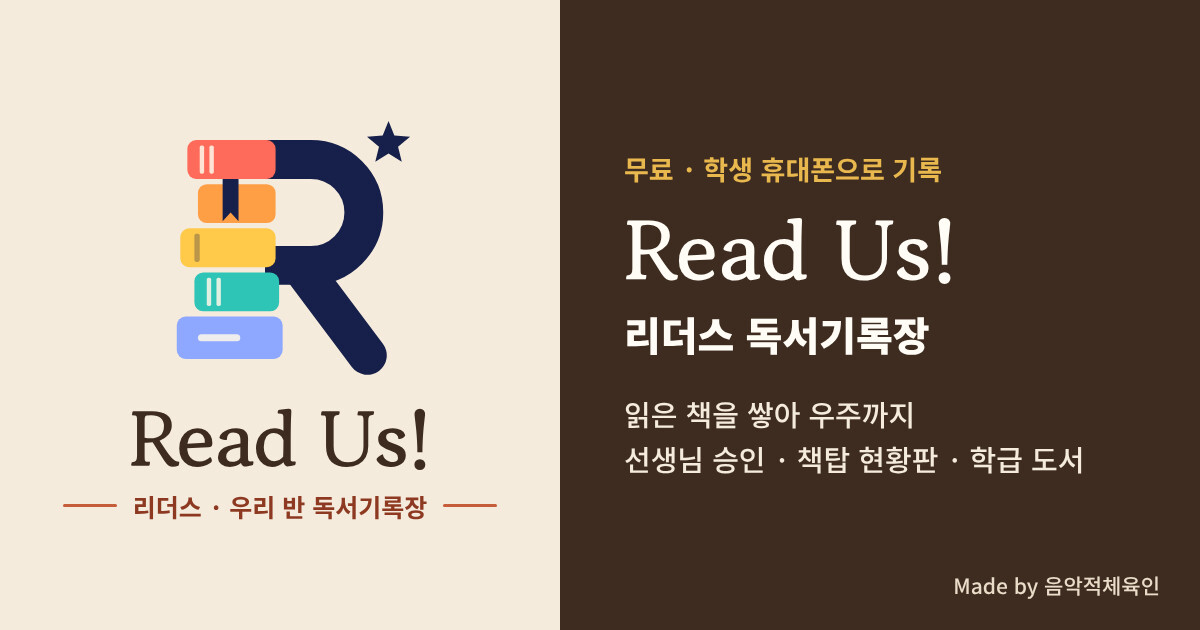
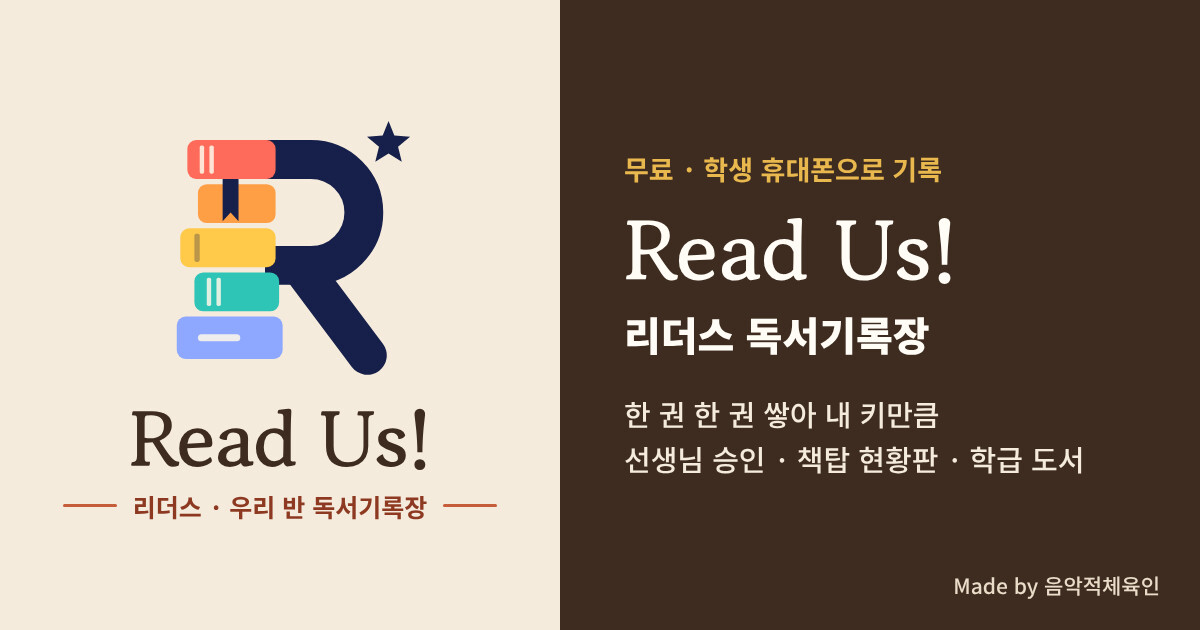
0.8.0: 책 한 권 = 2cm, 목표를 의자·책상·내 키부터, 내 키는 학년별 평균
- 눕혀 쌓은 그림과 맞게 한 권을 실제 두께쯤인 2cm 로 셈 (전에는 30cm)
- 목표: 의자 45cm → 책상 70cm → 내 키 → 교실 문 2m → 교실 천장 3m → 학교·아파트·초고층·산·우주
- 내 키: 교육부 2025 학생 건강검사 표본통계의 학년별 평균. 선생님 메뉴에서 학년 고르기(명단의 학년으로 자동 맞춤)
- 책이 적을 때는 한 권이 그림 한 권, 실제 제목 순서대로
- 비교 그림 추가(의자·책상·아이·문), 썸네일·안내 글의 문구 변경
- 전체 시험 72항목

Claude-Session: https://claude.ai/code/session_012oAFi5DK2xw2x9Njv4ErZ5

Changed region(s): [[0.5242, 0.6333, 0.8017, 0.6937]]

diff --git a/index.html b/index.html
@@ -4,13 +4,13 @@
 <meta charset="utf-8">
 <meta name="viewport" content="width=device-width, initial-scale=1">
 <title>Read Us! 리더스</title>
-<meta name="description" content="읽은 책을 쌓아 우주까지. 학생이 책과 감상을 기록하고 선생님이 승인하면 우리 반 책탑이 쌓여요.">
+<meta name="description" content="한 권 한 권 쌓아 내 키만큼, 교실 천장까지. 학생이 책과 감상을 기록하고 선생님이 승인하면 우리 반 책탑이 쌓여요.">
 <meta property="og:type" content="website">
 <meta property="og:site_name" content="리더스">
 <meta property="og:title" content="Read Us! 리더스 · 독서기록장">
-<meta property="og:description" content="읽은 책을 쌓아 우주까지. 학생 휴대폰으로 기록하고, 선생님이 승인하면 우리 반 책탑이 쌓여요.">
+<meta property="og:description" content="한 권 한 권 쌓아 내 키만큼, 교실 천장까지. 학생 휴대폰으로 기록하고, 선생님이 승인하면 우리 반 책탑이 쌓여요.">
 <meta property="og:url" content="https://musicalpe.github.io/readus/">
-<meta property="og:image" content="https://musicalpe.github.io/readus/img/og-app.jpg?v=1">
+<meta property="og:image" content="https://musicalpe.github.io/readus/img/og-app.jpg?v=2">
 <meta property="og:image:width" content="1200">
 <meta property="og:image:height" content="630">
 <meta name="twitter:card" content="summary_large_image">
@@ -70,9 +70,9 @@ img.cover{object-fit:cover;padding:0;border-left:0;display:block}
 /* 현황판 */
 .tower{flex:3 1 420px;background:var(--wood);color:var(--card);border-radius:20px;padding:24px;display:flex;gap:16px;justify-content:center;overflow:hidden}
 .tower svg{flex:none}
-.marks{position:relative;width:170px;min-width:120px;height:500px;flex:0 1 170px}
+.marks{position:relative;width:170px;min-width:150px;height:500px;flex:0 1 170px}
 .marks div{position:absolute;left:0;transform:translateY(-50%);display:flex;flex-direction:column;line-height:1.3}
-.marks strong{font-size:14px;color:var(--cream)}
+.marks strong{font-size:14px;color:var(--cream);white-space:nowrap}
 .marks span{font-size:12px;color:var(--cream)}
 .marks .goal strong{color:var(--mustard);font-size:15px}
 .marks .now strong{color:var(--card);font-size:17px}
@@ -178,7 +178,7 @@ table.t td,table.t th{padding:8px 6px;border-bottom:1px solid var(--line);text-a
 <script>
 'use strict';
 var TEMPLATE_URL = 'https://docs.google.com/spreadsheets/d/1i-lr4aewTmhj4eJ-hfXgjxaPzflmMyLMn-aqUepZjls/copy';   // 껍데기가 들어 있는 견본 시트 (사본 만들기)
-var APP = { version: '0.7.1', requiredShell: 1, latestShell: 2, s: '', ping: null, settings: null, relay: '', token: '', me: null };
+var APP = { version: '0.8.0', requiredShell: 1, latestShell: 2, s: '', ping: null, settings: null, relay: '', token: '', me: null };
 
 /* ---------- 작은 도구 ---------- */
 function $(sel, root) { return (root || document).querySelector(sel); }
@@ -195,11 +195,15 @@ function dueText(due) {
 }
 // 견본 시트의 사본은 이름 끝에 '의 사본'이 붙으므로 화면에서는 떼고 보여 줌
 function classTitle(t) { return String(t || '').replace(/\s*의 사본(\s*\(\d+\))?\s*$/, '').replace(/^Copy of\s+/i, '').trim(); }
-function heightText(count, cm) {
-  var m = count * cm / 100;
-  if (m >= 1000) return (Math.round(m / 10) / 100) + 'km';
-  return (Math.round(m * 10) / 10) + 'm';
+// 책 한 권 = 실제 두께쯤인 2cm 로 쌓음 (눕혀 쌓은 그림과 맞게). 껍데기가 알려 주는 옛 값(30)은 쓰지 않음
+var BOOK_CM = 2;
+function hText(cm) {
+  if (cm < 100) return Math.round(cm) + 'cm';
+  if (cm < 1000) { var m = Math.floor(cm / 100), r = Math.round(cm - m * 100); return r ? m + 'm ' + r + 'cm' : m + 'm'; }
+  if (cm < 100000) return (Math.round(cm / 10) / 10) + 'm';
+  return (Math.round(cm / 1000) / 100) + 'km';
 }
+function heightText(count) { return hText(count * BOOK_CM); }
 
 /* ---------- 학교 시트(껍데기)와 주고받기 ---------- */
 async function rpcOnce(fn, args) {
@@ -271,12 +275,13 @@ function rng(seed) { var a = seed >>> 0; return function () { a = (a + 0x6D2B79F
 function pick(r, arr) { return arr[Math.floor(r() * arr.length)]; }
 function inkOn(c) { return (c === '#D2604A' || c === '#B8566B') ? CREAM : INK; }
 // fill: 0~1 (다음 목표까지 얼마나 찼는지), titles: 책등에 적을 제목들(최근 승인된 책)
-function towerSvg(fill, titles) {
+function towerSvg(fill, titles, exact) {
   var W = 190, H = 500, fillPx = Math.max(0, Math.min(1, fill)) * H, r = rng(23), r2 = rng(5);
   var hs = [], sum = 0;
   while (fillPx - sum >= 14) { var hh = Math.min(pick(r, [16, 18, 20, 22, 26]), fillPx - sum); if (fillPx - sum - hh < 14 && fillPx - sum <= 30) hh = fillPx - sum; hs.push(hh); sum += hh; }
+  if (exact) { hs = []; for (var e = 0; e < exact; e++) hs.push(fillPx / exact); }   // 한 권이 그림 한 권 (제목도 실제 순서대로)
   if (!hs.length && fillPx > 0) hs.push(Math.max(8, fillPx));
-  var out = ['<svg width="' + W + '" height="' + H + '" viewBox="0 0 ' + W + ' ' + H + '" role="img" aria-label="우리 반 책탑"><line x1="0" y1="1" x2="' + W + '" y2="1" stroke="#E8B84E" stroke-width="2" stroke-dasharray="6 5"/>'];
+  var out = ['<svg width="' + W + '" height="' + H + '" viewBox="0 0 ' + W + ' ' + H + '" role="img" aria-label="우리 반 책탑" data-n="' + hs.length + '"><line x1="0" y1="1" x2="' + W + '" y2="1" stroke="#E8B84E" stroke-width="2" stroke-dasharray="6 5"/>'];
   function lines(a, b) { var o = [], t = a + 1.4; while (t < b - 0.8) { o.push(t); t += pick(r2, [1.8, 2.2, 2.6]); } return o; }
   var y = H, prevC = '', prevO = '', ti = 0, k = 0;
   hs.forEach(function (h) {
@@ -329,11 +334,22 @@ function towerSvg(fill, titles) {
 }
 
 /* ---------- 목표와 비교 그림 ---------- */
-var GOALS = [
-  { m: 3, name: '교실 천장', kind: 'room' }, { m: 12, name: '학교 4층', kind: 'bld', floors: 4 }, { m: 30, name: '아파트 10층', kind: 'bld', floors: 10 },
-  { m: 75, name: '아파트 25층', kind: 'bld', floors: 25 }, { m: 249, name: '63빌딩', kind: 'sky' }, { m: 555, name: '롯데월드타워', kind: 'sky' },
-  { m: 1947, name: '한라산', kind: 'mt' }, { m: 8849, name: '에베레스트', kind: 'mt' }, { m: 100000, name: '우주', kind: 'space' }
-];
+// 학년별 평균 키(cm): 교육부 2025년 학생 건강검사 표본통계의 남녀 평균을 반올림 (초2·초3·초5 는 발표된 학년 사이를 어림)
+var KID_CM = { '1': 122, '2': 128, '3': 134, '4': 140, '5': 146, '6': 153, 'm1': 159, 'm2': 163, 'm3': 166 };
+var GRADE_NAME = { '1': '1학년', '2': '2학년', '3': '3학년', '4': '4학년', '5': '5학년', '6': '6학년', 'm1': '중1', 'm2': '중2', 'm3': '중3' };
+function classGrade() { var g = APP.settings && APP.settings.extra && APP.settings.extra.grade; return KID_CM[g] ? String(g) : ''; }
+function goalsFor(grade) {
+  var kid = KID_CM[grade] || 140;
+  return [
+    { cm: 45, name: '의자', kind: 'chair' }, { cm: 70, name: '책상', kind: 'desk' },
+    { cm: kid, name: '내 키', sub: (GRADE_NAME[grade] || '초등학생') + ' 평균', kind: 'kid' },
+    { cm: 200, name: '교실 문', kind: 'door' }, { cm: 300, name: '교실 천장', kind: 'room' },
+    { cm: 600, name: '학교 2층', kind: 'bld', floors: 2 }, { cm: 1200, name: '학교 4층', kind: 'bld', floors: 4 },
+    { cm: 3000, name: '아파트 10층', kind: 'bld', floors: 10 }, { cm: 7500, name: '아파트 25층', kind: 'bld', floors: 25 },
+    { cm: 24900, name: '63빌딩', kind: 'sky' }, { cm: 55500, name: '롯데월드타워', kind: 'sky' },
+    { cm: 194700, name: '한라산', kind: 'mt' }, { cm: 884900, name: '에베레스트', kind: 'mt' }, { cm: 10000000, name: '우주', kind: 'space' }
+  ];
+}
 function compareSvg(g) {
   var W = 104, H = 500, o = ['<svg class="cmp" width="' + W + '" height="' + H + '" viewBox="0 0 ' + W + ' ' + H + '" role="img" aria-label="비교 대상: ' + esc(g.name) + '">'];
   if (g.kind === 'bld') {
@@ -343,10 +359,26 @@ function compareSvg(g) {
       var y = top + f * fh;
       o.push('<rect x="' + bx + '" y="' + (y + fh - Math.min(3, fh * 0.12)).toFixed(1) + '" width="' + bw + '" height="' + Math.min(3, fh * 0.12).toFixed(1) + '" fill="#A08C72"/>');
       for (var c = 0; c < 3; c++) {
-        if (f === g.floors - 1 && c === 1) { o.push('<rect x="' + (bx + 29) + '" y="' + (y + fh * 0.3).toFixed(1) + '" width="20" height="' + (fh * 0.7).toFixed(1) + '" fill="#6E5847"/>'); continue; }
-        o.push('<rect x="' + (bx + 8 + c * 23) + '" y="' + (y + fh * 0.25).toFixed(1) + '" width="16" height="' + (fh * 0.45).toFixed(1) + '" rx="1" fill="' + (((f * 3 + c) % 4 === 1) ? '#FBEBC4' : '#6E5847') + '"/>');
+        var wh = Math.min(fh * 0.45, 46), dh = Math.min(fh * 0.7, 84);   // 층이 적은 건물은 창과 문이 길쭉해지지 않게
+        if (f === g.floors - 1 && c === 1) { o.push('<rect x="' + (bx + 29) + '" y="' + (y + fh - dh).toFixed(1) + '" width="20" height="' + dh.toFixed(1) + '" fill="#6E5847"/>'); continue; }
+        o.push('<rect x="' + (bx + 8 + c * 23) + '" y="' + (y + fh * 0.3).toFixed(1) + '" width="16" height="' + wh.toFixed(1) + '" rx="1" fill="' + (((f * 3 + c) % 4 === 1) ? '#FBEBC4' : '#6E5847') + '"/>');
       }
     }
+  } else if (g.kind === 'chair') {
+    W = 150; o[0] = o[0].replace('width="104"', 'width="150"').replace('0 0 104 ', '0 0 150 ');
+    o.push('<rect x="20" y="0" width="16" height="500" rx="6" fill="#8F7B63"/><rect x="20" y="20" width="16" height="150" rx="6" fill="#B9A58C"/><rect x="16" y="262" width="118" height="26" rx="8" fill="#B9A58C"/><rect x="112" y="288" width="16" height="212" rx="6" fill="#8F7B63"/><rect x="36" y="380" width="76" height="10" fill="#8F7B63"/>');
+  } else if (g.kind === 'desk') {
+    W = 170; o[0] = o[0].replace('width="104"', 'width="170"').replace('0 0 104 ', '0 0 170 ');
+    o.push('<rect x="4" y="0" width="162" height="30" rx="8" fill="#B9A58C"/><rect x="14" y="30" width="142" height="86" rx="4" fill="#8F7B63"/><rect x="26" y="52" width="118" height="10" rx="5" fill="#6E5847"/><rect x="18" y="116" width="16" height="384" rx="6" fill="#8F7B63"/><rect x="136" y="116" width="16" height="384" rx="6" fill="#8F7B63"/><rect x="34" y="420" width="102" height="10" fill="#8F7B63"/>');
+  } else if (g.kind === 'kid') {
+    W = 150; o[0] = o[0].replace('width="104"', 'width="150"').replace('0 0 104 ', '0 0 150 ');
+    o.push('<circle cx="75" cy="44" r="44" fill="#E9C9A6"/><path d="M31 44a44 44 0 0 1 88 0c-12-18-32-22-44-14c-14-8-34-4-44 14z" fill="#4E392B" stroke="#3E2C20" stroke-width="2"/><circle cx="60" cy="52" r="4" fill="#3E2C20"/><circle cx="90" cy="52" r="4" fill="#3E2C20"/><path d="M62 66q13 10 26 0" fill="none" stroke="#3E2C20" stroke-width="3" stroke-linecap="round"/>');
+    o.push('<rect x="64" y="84" width="22" height="18" fill="#E9C9A6"/><rect x="36" y="98" width="78" height="170" rx="22" fill="#E8B84E"/><rect x="14" y="106" width="24" height="150" rx="12" fill="#E8B84E"/><rect x="112" y="106" width="24" height="150" rx="12" fill="#E8B84E"/><circle cx="26" cy="262" r="12" fill="#E9C9A6"/><circle cx="124" cy="262" r="12" fill="#E9C9A6"/>');
+    o.push('<rect x="42" y="250" width="30" height="220" rx="12" fill="#5E7C9B"/><rect x="78" y="250" width="30" height="220" rx="12" fill="#5E7C9B"/><rect x="34" y="466" width="42" height="34" rx="12" fill="#3E2C20"/><rect x="74" y="466" width="42" height="34" rx="12" fill="#3E2C20"/>');
+  } else if (g.kind === 'door') {
+    // 문 높이 2m = 500px (너비는 칸에 맞춰 조금 좁게)
+    W = 170; o[0] = o[0].replace('width="104"', 'width="170"').replace('0 0 104 ', '0 0 170 ');
+    o.push('<rect x="0" y="0" width="170" height="500" fill="#8F7B63"/><rect x="8" y="8" width="154" height="492" fill="#B9A58C"/><rect x="28" y="40" width="70" height="130" rx="3" fill="#FBEBC4"/><rect x="24" y="250" width="122" height="220" rx="3" fill="none" stroke="#A08C72" stroke-width="4"/><circle cx="142" cy="268" r="7" fill="#6E5847"/>');
   } else if (g.kind === 'room') {
     // 교실 벽과 문: 500px = 3m 이므로 문은 높이 2m(333px)·너비 0.8m(132px)
     W = 160; o[0] = '<svg class="cmp" width="' + W + '" height="' + H + '" viewBox="0 0 ' + W + ' ' + H + '" role="img" aria-label="비교 대상: ' + esc(g.name) + '">';
@@ -366,7 +398,7 @@ function compareSvg(g) {
   o.push('</svg>');
   return o.join('');
 }
-function goalFor(m) { for (var i = 0; i < GOALS.length; i++) if (m < GOALS[i].m) return i; return GOALS.length - 1; }
+function goalFor(goals, cm) { for (var i = 0; i < goals.length; i++) if (cm < goals[i].cm) return i; return goals.length - 1; }
 
 /* ---------- 표지 ---------- */
 function coverHtml(b) {
@@ -416,17 +448,19 @@ VIEWS.home = async function () {
   var d = await guard(function () { return rpc('getBoard'); });
   if (!d) { app.innerHTML = '<div class="card"><p>학교 시트와 연결하지 못했어요.</p><button class="btn" type="button" id="again">다시 시도</button></div>'; $('#again').onclick = render; return; }
   $('#cls').textContent = classTitle(d.title);
-  var m = d.total * d.bookCm / 100, gi = goalFor(m), goal = GOALS[gi], fill = Math.min(1, m / goal.m);
-  var left = Math.max(0, Math.ceil(goal.m * 100 / d.bookCm) - d.total);
-  var marks = '<div class="goal" style="top:0"><strong>' + esc(goal.name) + ' · ' + heightText(goal.m * 100 / d.bookCm, d.bookCm) + '</strong><span>다음 목표</span></div>';
-  var nowTop = (1 - fill) * 100, used = [0, nowTop];
-  marks += '<div class="now" style="top:' + nowTop.toFixed(1) + '%"><strong>지금 여기 · ' + heightText(d.total, d.bookCm) + '</strong><span>' + d.total + '권</span></div>';
-  GOALS.slice(0, gi).reverse().forEach(function (g) {
-    var t = (1 - g.m / goal.m) * 100;
+  var goals = goalsFor(classGrade()), cm = d.total * BOOK_CM, gi = goalFor(goals, cm), goal = goals[gi], fill = Math.min(1, cm / goal.cm);
+  var left = Math.max(0, Math.ceil(goal.cm / BOOK_CM) - d.total);
+  var per = 500 / (goal.cm / BOOK_CM), exact = (per >= 12 && per <= 30 && d.total > 0 && cm < goal.cm) ? d.total : 0;   // 한 권이 12~30px 로 그려질 때만 한 권씩
+  function gname(g) { return esc(g.name) + ' · ' + hText(g.cm); }
+  var marks = '<div class="goal" style="top:0"><strong>' + gname(goal) + '</strong><span>' + (goal.sub ? esc(goal.sub) + ' · ' : '') + '다음 목표 · ' + Math.ceil(goal.cm / BOOK_CM) + '권</span></div>';
+  var nowTop = Math.max(10, (1 - fill) * 100), used = [0, nowTop];   // 목표 글자와 겹치지 않게 조금 아래로
+  marks += '<div class="now" style="top:' + nowTop.toFixed(1) + '%"><strong>지금 여기 · ' + hText(cm) + '</strong><span>' + d.total + '권</span></div>';
+  goals.slice(0, gi).reverse().forEach(function (g) {
+    var t = (1 - g.cm / goal.cm) * 100;
     if (used.some(function (u) { return Math.abs(u - t) < 10; }) || t > 97) return;
-    used.push(t); marks += '<div style="top:' + t.toFixed(1) + '%"><strong>' + esc(g.name) + ' · ' + heightText(g.m * 100 / d.bookCm, d.bookCm) + '</strong><span>지남</span></div>';
+    used.push(t); marks += '<div style="top:' + t.toFixed(1) + '%"><strong>' + gname(g) + '</strong><span>지남</span></div>';
   });
-  celebrate(d, m);
+  celebrate(d, cm, goals);
   var side = '';
   if (d.classBooks.length) side += '<h2 style="font-size:19px">우리 반이 함께 읽는 책</h2>' + d.classBooks.map(function (c) { return classBookCard(c); }).join('');
   if (d.ranks) {
@@ -437,22 +471,24 @@ VIEWS.home = async function () {
   }
   if (d.recent.length) side += '<div class="card"><span class="muted">방금 쌓인 책</span><br><strong>' + esc(d.recent[0].title) + (d.recent[0].name ? ' · ' + esc(d.recent[0].name) : '') + '</strong></div>';
   if (!side) side = '<div class="card"><strong>아직 쌓인 책이 없어요</strong><p class="muted">책을 읽고 "책 기록하기"로 첫 책을 올려 보세요.</p></div>';
-  app.innerHTML = '<div class="row" style="justify-content:space-between;margin-bottom:14px"><h1 class="headline">우리 반 책탑 ' + d.total + '권 · ' + heightText(d.total, d.bookCm) + '</h1>' +
-    '<strong>' + (left > 0 ? esc(goal.name) + '까지 ' + left + '권 남았어요' : esc(goal.name) + '에 닿았어요') + '</strong></div>' +
-    '<div class="grid2"><div class="tower">' + towerSvg(fill, d.recent.map(function (r) { return r.title; })) + compareSvg(goal) + '<div class="marks">' + marks + '</div></div><div class="side">' + side + '</div></div>';
+  var titles = d.recent.map(function (r) { return r.title; });
+  if (exact) titles = titles.slice(0, exact).reverse();
+  app.innerHTML = '<div class="row" style="justify-content:space-between;margin-bottom:4px"><h1 class="headline">우리 반 책탑 ' + d.total + '권 · ' + hText(cm) + '</h1>' +
+    '<strong>' + (left > 0 ? esc(goal.name) + '까지 ' + left + '권 남았어요' : esc(goal.name) + '에 닿았어요') + '</strong></div><p class="muted" style="margin:0 0 14px">책 한 권을 ' + BOOK_CM + 'cm로 쌓아요</p>' +
+    '<div class="grid2"><div class="tower">' + towerSvg(fill, titles, exact) + compareSvg(goal) + '<div class="marks">' + marks + '</div></div><div class="side">' + side + '</div></div>';
 };
 
 /* ---------- 목표에 닿았을 때 축하 (기기마다 한 번) ---------- */
-function celebrate(d, m) {
-  var reached = GOALS.filter(function (g) { return m >= g.m; }).length, key = 'ru_goal|' + APP.s, prev = null;
+function celebrate(d, cm, goals) {
+  var reached = goals.filter(function (g) { return cm >= g.cm; }).length, key = 'ru_goal2|' + APP.s, prev = null;
   try { prev = localStorage.getItem(key); localStorage.setItem(key, String(reached)); } catch (e) { return; }
   if (prev === null || reached <= Number(prev) || !reached) return;
-  var g = GOALS[reached - 1], next = GOALS[reached], conf = '';
+  var g = goals[reached - 1], next = goals[reached], conf = '';
   for (var i = 0; i < 36; i++) conf += '<i style="left:' + (i * 2.8 + (i % 3)) + '%;background:' + BOOKC[i % 6] + ';animation-delay:' + ((i * 37) % 900) + 'ms;animation-duration:' + (2200 + (i * 53) % 1200) + 'ms"></i>';
   setTimeout(function () {
     if ((location.hash || '#home') !== '#home' || $('#modal').innerHTML) return;
-    $('#modal').innerHTML = '<div class="conf" aria-hidden="true">' + conf + '</div><div class="shade mid" id="cels"><div class="qrbox" role="dialog" aria-labelledby="celt"><span class="pill">목표 달성</span><h2 id="celt" style="font-size:28px">' + esc(g.name) + '에 닿았어요</h2><p style="margin:0;font-size:17px">우리 반이 함께 <b>' + d.total + '권</b>, ' + heightText(d.total, d.bookCm) + '를 쌓았어요.</p>' +
-      (next ? '<p class="muted" style="margin:0">다음 목표는 ' + esc(next.name) + ' (' + heightText(next.m * 100 / d.bookCm, d.bookCm) + ')</p>' : '') + '<button class="btn" type="button" id="celx">좋아요</button></div></div>';
+    $('#modal').innerHTML = '<div class="conf" aria-hidden="true">' + conf + '</div><div class="shade mid" id="cels"><div class="qrbox" role="dialog" aria-labelledby="celt"><span class="pill">목표 달성</span><h2 id="celt" style="font-size:28px">' + esc(g.name) + '에 닿았어요</h2><p style="margin:0;font-size:17px">우리 반이 함께 <b>' + d.total + '권</b>, ' + hText(cm) + '를 쌓았어요.</p>' +
+      (next ? '<p class="muted" style="margin:0">다음 목표는 ' + esc(next.name) + ' (' + hText(next.cm) + ')</p>' : '') + '<button class="btn" type="button" id="celx">좋아요</button></div></div>';
     $('#celx').onclick = function () { $('#modal').innerHTML = ''; };
     $('#cels').onclick = function (ev) { if (ev.target === ev.currentTarget) $('#modal').innerHTML = ''; };
     $('#celx').focus();
@@ -518,7 +554,7 @@ VIEWS.student = async function () {
   }
   var me = APP.me, d = await guard(function () { return rpc('getMyBooks', [me.id, me.pw]); });
   if (!d) { APP.me = null; return; }
-  var cm = APP.ping.bookCm, rule = APP.settings.rule;
+  var cm = BOOK_CM, rule = APP.settings.rule;
   var cbs = d.classBooks.map(function (c) {
     var st = c.my === 'approved' ? '<span class="pill ok">읽었어요 · 승인됨</span>' : c.my === 'pending' ? '<span class="pill wait">읽었어요 · 승인 대기</span>' : '<button class="btn small" type="button" data-cb="' + esc(c.id) + '">다 읽었어요 · 감상 쓰기</button>';
     return classBookCard(c, '<div>' + st + '</div>');
@@ -623,6 +659,11 @@ VIEWS.admin = async function () {
   var d = await guard(function () { return rpc('getAllDataAdmin', [APP.token]); });
   if (!d) { adminOut(); render(); return; }
   ADMIN.data = d; ADMIN.at = Date.now(); APP.settings = d.settings; APP.ping.shell = d.shell;
+  if (d.shell >= 2 && !classGrade() && d.students.length) {   // 학년을 아직 안 골랐으면 명단에서 가장 많은 학년으로 맞춰 둠
+    var tally = {}; d.students.forEach(function (st) { if (KID_CM[st.grade]) tally[st.grade] = (tally[st.grade] || 0) + 1; });
+    var top = Object.keys(tally).sort(function (a, b) { return tally[b] - tally[a]; })[0];
+    if (top) { try { APP.settings = d.settings = await rpc('setSettings', [APP.token, { extra: { grade: top } }]); } catch (e) {} }
+  }
   $('#cls').textContent = classTitle(d.settings.className || d.sheetName || APP.ping.title);
   drawAdmin();
 };
@@ -666,7 +707,7 @@ function editBook(b) {
 }
 // 독서기록장 인쇄: 승인된 기록만, 학생마다 한 쪽씩
 function printRecords(d, students) {
-  var cm = APP.ping.bookCm, cls = classTitle($('#cls').textContent), html = '';
+  var cm = BOOK_CM, cls = classTitle($('#cls').textContent), html = '';
   students.forEach(function (s) {
     var list = d.books.filter(function (b) { return b.sid === s.id && b.status === 'approved'; });
     html += '<section><h1>' + esc(s.name) + '의 독서기록장</h1><p class="sum">' + esc(cls) + ' · ' + esc(s.grade) + '학년 ' + esc(s.cls) + '반 ' + esc(s.number) + '번 · 모두 ' + list.length + '권 (책탑 ' + heightText(list.length, cm) + ')</p>' +
@@ -703,7 +744,7 @@ var ADMIN_TABS = {
     });
   },
   records: function (el, d) {
-    var cm = APP.ping.bookCm, sid = ADMIN.recSid || '', cnt = {};
+    var cm = BOOK_CM, sid = ADMIN.recSid || '', cnt = {};
     d.books.forEach(function (b) { if (b.status === 'approved') cnt[b.sid] = (cnt[b.sid] || 0) + 1; });
     if (sid && !d.students.some(function (s) { return s.id === sid; })) sid = ADMIN.recSid = '';
     var head = '<div class="row" style="margin-bottom:14px"><label for="rsel" style="font-weight:700">학생</label><select class="in" id="rsel" style="width:auto;flex:1 1 180px;max-width:280px"><option value="">우리 반 전체</option>' +
@@ -788,10 +829,11 @@ var ADMIN_TABS = {
   },
   board: function (el, d) {
     var link = location.origin + location.pathname + '?s=' + encodeURIComponent(APP.s);
-    el.innerHTML = '<div class="stack" style="max-width:560px">' + (d.shell >= 2 ? '<form class="item" id="cnf"><label class="f" for="cn" style="margin-top:0">화면에 보일 학급 이름 (비우면 시트 이름을 씁니다)</label><div class="row" style="flex-wrap:nowrap"><input class="in" id="cn" maxlength="30" autocomplete="off" value="' + esc(d.settings.className || '') + '" placeholder="' + esc(classTitle(d.sheetName)) + '"><button class="btn small" type="submit" style="white-space:nowrap">저장</button></div></form>' : '') + '<div class="item"><label class="row" style="min-height:44px;font-weight:700"><input type="checkbox" id="sn" style="width:22px;height:22px"' + (d.settings.showNames ? ' checked' : '') + '> 현황판에 친구 이름과 권수 보이기</label><p class="muted" style="margin:0">끄면 현황판에는 우리 반 전체 책탑만 보여요.</p></div>' +
+    el.innerHTML = '<div class="stack" style="max-width:560px">' + (d.shell >= 2 ? '<form class="item" id="cnf"><label class="f" for="cn" style="margin-top:0">화면에 보일 학급 이름 (비우면 시트 이름을 씁니다)</label><div class="row" style="flex-wrap:nowrap"><input class="in" id="cn" maxlength="30" autocomplete="off" value="' + esc(d.settings.className || '') + '" placeholder="' + esc(classTitle(d.sheetName)) + '"><button class="btn small" type="submit" style="white-space:nowrap">저장</button></div></form>' : '') + (d.shell >= 2 ? '<div class="item"><label class="f" for="gr" style="margin-top:0">우리 반 학년 (현황판의 "내 키" 목표에 쓰여요)</label><select class="in" id="gr">' + Object.keys(GRADE_NAME).map(function (k) { return '<option value="' + k + '"' + (classGrade() === k ? ' selected' : '') + '>' + GRADE_NAME[k] + ' · 평균 ' + KID_CM[k] + 'cm</option>'; }).join('') + (classGrade() ? '' : '<option value="" selected>고르지 않음 (140cm로 셈)</option>') + '</select><p class="muted" style="margin:8px 0 0">여러 학년이 함께 쓰면 가운데 학년을 고르세요.</p></div>' : '') + '<div class="item"><label class="row" style="min-height:44px;font-weight:700"><input type="checkbox" id="sn" style="width:22px;height:22px"' + (d.settings.showNames ? ' checked' : '') + '> 현황판에 친구 이름과 권수 보이기</label><p class="muted" style="margin:0">끄면 현황판에는 우리 반 전체 책탑만 보여요.</p></div>' +
       '<div class="item"><strong>학생에게 알려 줄 주소</strong><input class="in" id="lk" readonly value="' + esc(link) + '" style="margin-top:8px"><div class="row" style="margin-top:8px"><button class="btn line small" type="button" id="cp">주소 복사</button><button class="btn small" type="button" id="bq">접속 QR 크게 보기</button></div><p class="muted" style="margin:8px 0 0">현황판 오른쪽 위의 "접속 QR" 단추로도 언제든 띄울 수 있어요.</p></div>' +
       '<div class="item"><strong>우리 반 시트</strong><p class="muted" style="margin:4px 0 8px">학생 명단과 기록은 이 시트에 저장됩니다.</p><a class="btn line small" href="' + esc(d.sheetUrl) + '" target="_blank" rel="noopener" style="display:inline-flex;align-items:center;text-decoration:none">시트 열기</a></div></div>';
     if ($('#cnf')) $('#cnf').onsubmit = function (ev) { ev.preventDefault(); act('setSettings', [{ className: $('#cn').value }], '학급 이름을 저장했어요.'); };
+    if ($('#gr')) $('#gr').onchange = function () { if ($('#gr').value) act('setSettings', [{ extra: { grade: $('#gr').value } }], '학년을 저장했어요.'); };
     $('#sn').onchange = function () { act('setSettings', [{ showNames: $('#sn').checked }], '저장했어요.'); };
     $('#bq').onclick = showQr;
     $('#cp').onclick = function () { var i = $('#lk'); i.select(); (navigator.clipboard ? navigator.clipboard.writeText(i.value) : Promise.reject()).then(function () { toast('주소를 복사했어요.'); }, function () { toast('주소를 길게 눌러 복사해 주세요.'); }); };

diff --git a/dev/og.html b/dev/og.html
@@ -18,5 +18,5 @@ body{width:1200px;height:630px;display:flex;font-family:'Noto Sans KR',sans-seri
 .r small{position:absolute;right:40px;bottom:30px;font-size:21px;color:#E9DCC8}
 </style></head><body>
 <div class="l"><svg viewBox="20 20 170 160" aria-hidden="true"><path d="M88 51H114a30 30 0 0 1 0 60H88" fill="none" stroke="#17204A" stroke-width="22"/><path d="M110 114L146 162" fill="none" stroke="#17204A" stroke-width="22" stroke-linecap="round"/><rect x="44" y="40" width="50" height="22" rx="5" fill="#FF6B5A"/><rect x="51" y="43" width="2.5" height="16" rx="1" fill="#FFF8EA" opacity=".85"/><rect x="56.5" y="43" width="2.5" height="16" rx="1" fill="#FFF8EA" opacity=".85"/><rect x="50" y="65" width="44" height="22" rx="5" fill="#FF9F45"/><rect x="40" y="90" width="54" height="22" rx="5" fill="#FFC94A"/><rect x="48" y="93" width="3" height="16" rx="1" fill="#17204A" opacity=".3"/><rect x="48" y="115" width="48" height="22" rx="5" fill="#2EC4B6"/><rect x="55" y="118" width="2.5" height="16" rx="1" fill="#FFF8EA" opacity=".85"/><rect x="60.5" y="118" width="2.5" height="16" rx="1" fill="#FFF8EA" opacity=".85"/><rect x="38" y="140" width="60" height="24" rx="5" fill="#8FA8FF"/><rect x="50" y="150" width="24" height="4" rx="2" fill="#FFF8EA" opacity=".85"/><polygon points="64,62 73,62 73,86 68.5,81 64,86" fill="#17204A"/><polygon points="158,29.2 161.3,37.4 170.2,38.1 163.4,43.8 165.5,52.3 158,47.6 150.5,52.3 152.6,43.8 145.8,38.1 154.7,37.4" fill="#17204A"/></svg><b>Read Us!</b><span>리더스 · 우리 반 독서기록장</span></div>
-<div class="r"><div class="k">무료 · 학생 휴대폰으로 기록</div><h1>Read Us!</h1><h2>리더스 독서기록장</h2><p>읽은 책을 쌓아 우주까지<br>선생님 승인 · 책탑 현황판 · 학급 도서</p><small>Made by 음악적체육인</small></div>
+<div class="r"><div class="k">무료 · 학생 휴대폰으로 기록</div><h1>Read Us!</h1><h2>리더스 독서기록장</h2><p>한 권 한 권 쌓아 내 키만큼<br>선생님 승인 · 책탑 현황판 · 학급 도서</p><small>Made by 음악적체육인</small></div>
 </body></html>

diff --git a/tests/full.py b/tests/full.py
@@ -106,8 +106,11 @@ try:
 
         # 7. 현황판
         pg.click('[data-go=home]'); pg.wait_for_selector('.tower svg')
-        ok('현황판: 1권 · 0.3m', '1권 · 0.3m' in pg.inner_text('h1.headline'))
-        ok('다음 목표: 교실 천장까지 9권', '교실 천장까지 9권' in pg.inner_text('#app'))
+        ok('현황판: 1권 · 2cm', '1권 · 2cm' in pg.inner_text('h1.headline'))
+        ok('다음 목표: 의자까지 22권', '의자까지 22권' in pg.inner_text('#app') and '책 한 권을 2cm로' in pg.inner_text('#app'))
+        ok('책이 적을 때는 한 권이 그림 한 권', pg.get_attribute('.tower svg >> nth=0', 'data-n') == '1')
+        ok('높이 글: cm·m·km', pg.evaluate("[hText(64), hText(146), hText(300), hText(2580), hText(194700), hText(10000000)]") == ['64cm', '1m 46cm', '3m', '25.8m', '1.95km', '100km'])
+        ok('학년을 못 정했을 때 내 키는 140cm, 선생님이 들어온 뒤에는 명단 학년(5학년 146cm)', pg.evaluate("goalsFor('')[2].cm") == 140 and pg.evaluate("goalsFor(classGrade())[2].cm") == 146)
         ok('책탑 그림과 비교 그림', pg.locator('.tower svg').count() == 2 and pg.locator('.tower svg').first.locator('rect').count() >= 1)
         ok('친구들이 쌓은 책에 이름과 권수', '김하늘' in pg.inner_text('.side') and '1권' in pg.inner_text('.side'))
         ok('학급 도서 진행(아직 0명)', '3명 중 0명' in pg.inner_text('.side'))
@@ -120,7 +123,7 @@ try:
         pg.click('[data-go=home]'); pg.wait_for_selector('h1.headline'); pg.click('[data-go=admin]'); pg.wait_for_selector('#all'); pg.click('#all')
         pg.wait_for_function("document.querySelectorAll('[data-rid]').length === 0")
         pg.click('[data-go=home]'); pg.wait_for_selector('.tower svg')
-        ok('고쳐 쓴 기록 승인 → 2권 · 0.6m', '2권 · 0.6m' in pg.inner_text('h1.headline'))
+        ok('고쳐 쓴 기록 승인 → 2권 · 4cm', '2권 · 4cm' in pg.inner_text('h1.headline'))
         ok('학급 도서 진행 1명', '3명 중 1명' in pg.inner_text('.side'))
 
         # 8-2. 독서 기록 보기·인쇄
@@ -138,7 +141,11 @@ try:
         pg.click('[data-go=admin]'); pg.wait_for_selector('.menu'); pg.click('[data-tab=rule]')
         pg.select_option('#rk', 'char'); pg.fill('#rm', '30'); pg.click('#rf button[type=submit]'); pg.wait_for_timeout(400)
         pg.click('[data-tab=rule]'); ok('감상 기준 저장 (글자 수 30)', pg.input_value('#rm') == '30' and pg.input_value('#rk') == 'char')
-        pg.click('[data-tab=board]'); pg.wait_for_selector('#sn'); pg.click('#bq'); pg.wait_for_selector('.qrimg'); ok('선생님 메뉴에서도 QR 크게 보기', True); pg.click('#qrx')
+        pg.click('[data-tab=board]'); pg.wait_for_selector('#sn')
+        ok('학생 명단의 학년(5학년)으로 내 키가 맞춰짐', pg.input_value('#gr') == '5' and pg.evaluate("goalsFor(classGrade())[2].cm") == 146)
+        pg.select_option('#gr', '6'); pg.wait_for_function("classGrade() === '6'")
+        ok('학년을 바꾸면 내 키도 바뀜 (6학년 153cm)', pg.evaluate("goalsFor(classGrade())[2]")['cm'] == 153 and pg.evaluate("goalsFor(classGrade())[2].sub") == '6학년 평균')
+        pg.wait_for_selector('#bq'); pg.click('#bq'); pg.wait_for_selector('.qrimg'); ok('선생님 메뉴에서도 QR 크게 보기', True); pg.click('#qrx')
         pg.uncheck('#sn'); pg.wait_for_timeout(500)
         pg.click('[data-go=home]'); pg.wait_for_selector('.tower svg')
         ok('이름 가리기: 현황판에 이름 없음', '김하늘' not in pg.inner_text('#app') and '2권' in pg.inner_text('h1.headline'))
@@ -193,20 +200,21 @@ try:
         call('setPrivate', tok, {'nat': {'on': True, 'key': 'k1', 'collector': 'https://script.google.com/macros/s/abc/exec', 'name': '햇살초'}})
         ok('저장칸 쓰기·읽기, 설정하면 보고가 나감', call('getPrivateAdmin', tok)['result']['nat']['key'] == 'k1' and call('natReport')['result']['ok'] is True and 'k1' not in json.dumps(call('getSettings')) + json.dumps(call('getBoard')))
         call('setSettings', tok, {'extra': {'theme': 'wood'}})
-        ok('자유 저장칸과 날짜별 권수', call('getSettings')['result']['extra'] == {'theme': 'wood'} and sum(call('getBoard')['result']['days'].values()) == 2)
+        ok('자유 저장칸과 날짜별 권수', call('getSettings')['result']['extra'] == {'grade': '6', 'theme': 'wood'} and sum(call('getBoard')['result']['days'].values()) == 2)
         pg.click('[data-go=admin]'); pg.wait_for_selector('.menu'); pg.click('[data-tab=pw]'); pg.click('#rs'); pg.fill('#rsw', '아니'); pg.click('#rsf button[type=submit]'); pg.wait_for_timeout(200)
         ok('초기화는 "지우기"를 적어야 함', len(state()['Books']) > 1)
         pg.fill('#rsw', '지우기'); pg.click('#rsf button[type=submit]'); pg.wait_for_function("!document.querySelector('.shade')"); pg.wait_for_timeout(300)
         ok('책 기록 초기화 (학생·학급 도서는 남음)', len(state()['Books']) == 1 and len(state()['Students']) == 4 and len(state()['ClassBooks']) == 2)
-        # 10-4. 목표 축하: 10권(3m)이 되면 교실 천장
+        # 10-4. 목표 축하: 23권(46cm)이 되면 의자(45cm)
         sid2 = state()['Students'][2][0]
-        rids = [call('addBook', sid2, '', {'title': f'책 {i}', 'note': '가'})['result']['rid'] for i in range(10)]
+        rids = [call('addBook', sid2, '', {'title': f'책 {i}', 'note': '가'})['result']['rid'] for i in range(23)]
         pg.click('[data-go=home]'); pg.wait_for_selector('h1.headline'); pg.wait_for_timeout(800)
         ok('승인 전에는 축하가 뜨지 않음', pg.locator('#celt').count() == 0)
         call('approveBooks', tok, rids); pg.reload(); pg.wait_for_selector('#celt')
-        ok('목표에 닿으면 축하', '교실 천장에 닿았어요' in pg.inner_text('.qrbox') and '10권' in pg.inner_text('.qrbox') and '학교 4층' in pg.inner_text('.qrbox'))
+        ok('목표에 닿으면 축하', '의자에 닿았어요' in pg.inner_text('.qrbox') and '23권' in pg.inner_text('.qrbox') and '46cm' in pg.inner_text('.qrbox') and '책상' in pg.inner_text('.qrbox'))
         pg.click('#celx'); pg.reload(); pg.wait_for_selector('.tower svg'); pg.wait_for_timeout(900)
         ok('축하는 한 번만', pg.locator('#celt').count() == 0)
+        ok('다음 목표는 책상, 한 권씩 그림', '책상까지 12권' in pg.inner_text('#app') and pg.get_attribute('.tower svg >> nth=0', 'data-n') == '23')
         pg.click('#inst'); pg.wait_for_selector('#insx'); ok('앱으로 설치하기 안내', '홈 화면' in pg.inner_text('.qrbox')); pg.click('#insx')
         ok('설치 설명 파일이 열림', json.load(urllib.request.urlopen(BASE + '/readus/manifest.webmanifest'))['short_name'] == '리더스')
         pg.click('[data-go=student]'); pg.wait_for_selector('.name'); pg.locator('.name', has_text='김하늘').click(); pg.wait_for_selector('#pw'); pg.fill('#pw', '4321'); pg.click('#pwf button[type=submit]'); pg.wait_for_selector('#rec')

diff --git a/README.md b/README.md
@@ -1,16 +1,16 @@
 # Read Us! 리더스
 
-읽은 책을 한 권씩 쌓아 우주까지 올라가는 학급 독서기록장입니다.
-아이들이 읽은 책의 제목·지은이·출판사·감상을 적어 보내면, 선생님이 승인할 때마다 우리 반 책탑에 한 권(30cm)씩 쌓입니다.
+읽은 책을 한 권씩 쌓아 내 키만큼, 교실 천장까지 올리는 학급 독서기록장입니다.
+아이들이 읽은 책의 제목·지은이·출판사·감상을 적어 보내면, 선생님이 승인할 때마다 우리 반 책탑에 한 권(2cm)씩 쌓입니다.
 
 - 화면 주소: https://musicalpe.github.io/readus/
-- 지금 판: 화면 0.7.1 · 껍데기 2판
+- 지금 판: 화면 0.8.0 · 껍데기 2판
 
 ## 할 수 있는 것
 
 - **책 기록**: 학생이 이름을 고르고 읽은 책과 감상을 적어 보냅니다.
 - **선생님 승인**: 승인하면 책탑에 쌓이고, "다시 써 오기"로 돌려보낼 수도 있습니다.
-- **우리 반 책탑 현황판**: 쌓인 높이를 교실 천장, 학교 건물, 아파트 같은 비교 대상과 함께 보여 줍니다.
+- **우리 반 책탑 현황판**: 쌓인 높이를 의자, 책상, 내 키(학년별 평균), 교실 문, 교실 천장, 학교 건물 같은 비교 대상과 함께 보여 줍니다.
 - **감상 기준 안내**: 선생님이 정한 기준(문장 수·글자 수)보다 짧으면 보내기 전에 한 번 더 생각해 보게 합니다. 그대로 보내는 것도 막지 않습니다.
 - **독서기록장 출력**: 학생마다 읽은 책과 감상을 모아 인쇄하거나 PDF로 저장합니다.
 - **학급 도서**: 우리 반이 함께 읽을 책과 기한을 정해 권합니다. 기한이 지나도 기록할 수 있습니다.
